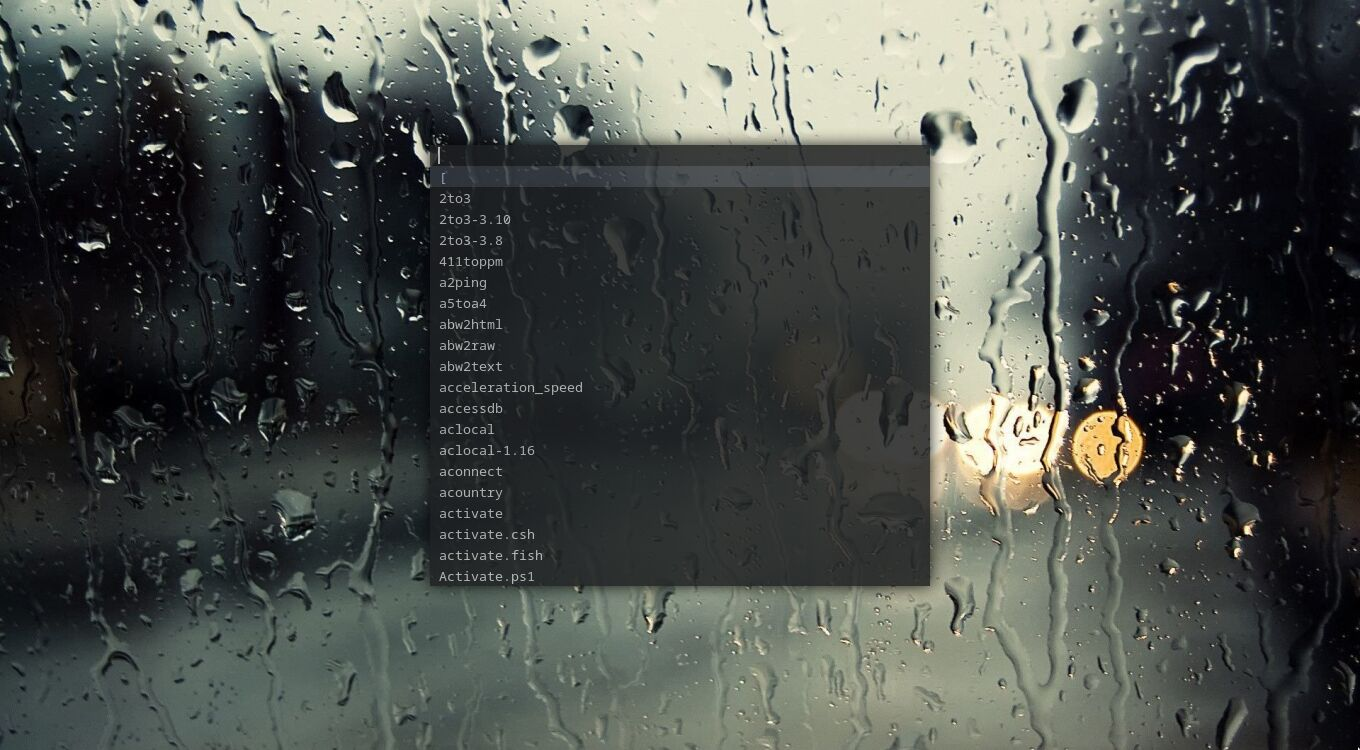
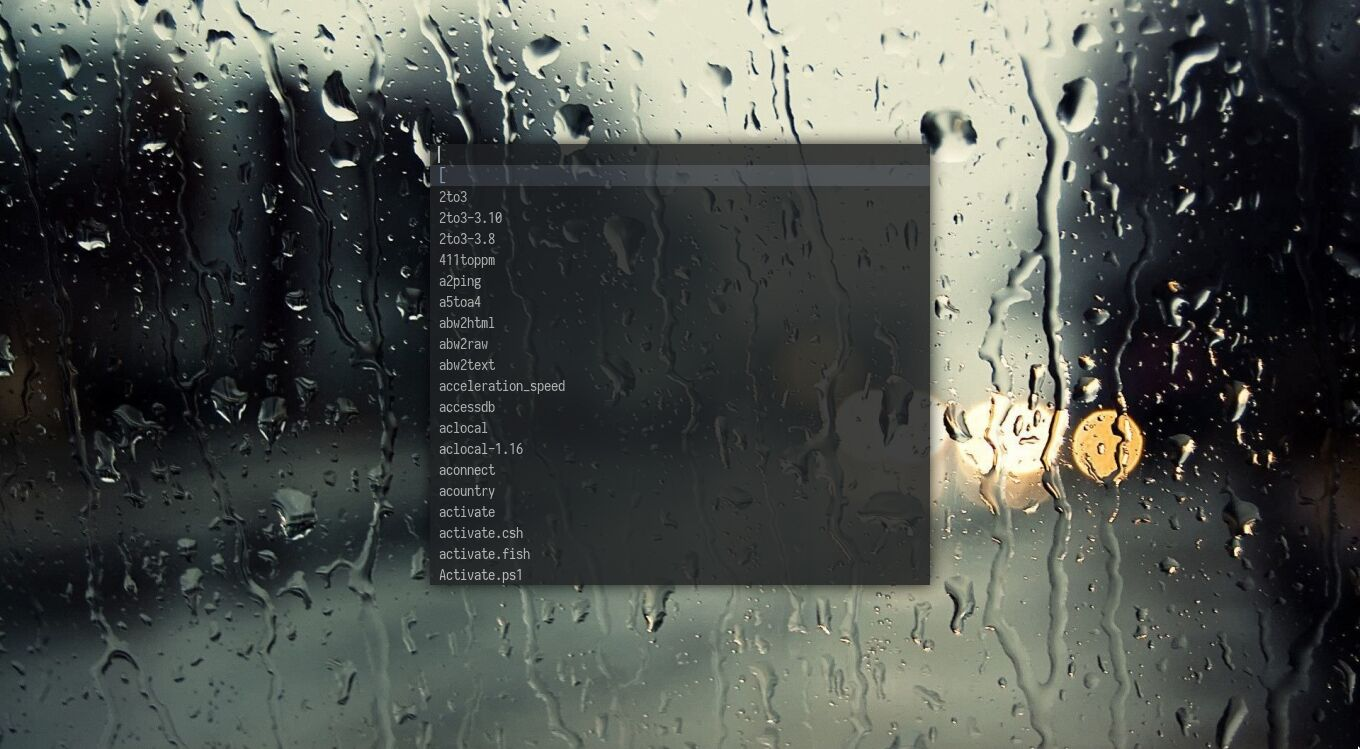
Use iosevka font

diff --git a/config.def.h b/config.def.h
@@ -6,7 +6,7 @@ static int centered = 1;                    /* -c option; centers dmenu on scree
 static int min_width = 500;                    /* minimum width when centered */
 /* -fn option overrides fonts[0]; default X11 font or font set */
 static const char *fonts[] = {
-	"monospace:size=10"
+	"Iosevka Term:size=11"
 };
 static const char *prompt      = NULL;      /* -p  option; prompt to the left of input field */
 static const char *colors[SchemeLast][2] = {
